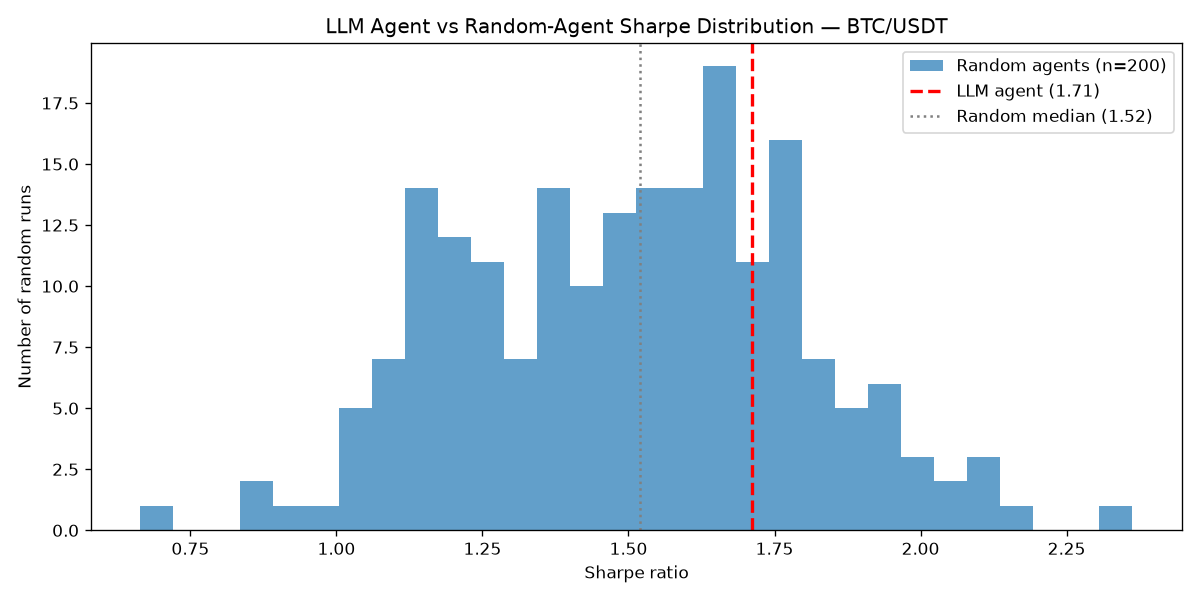
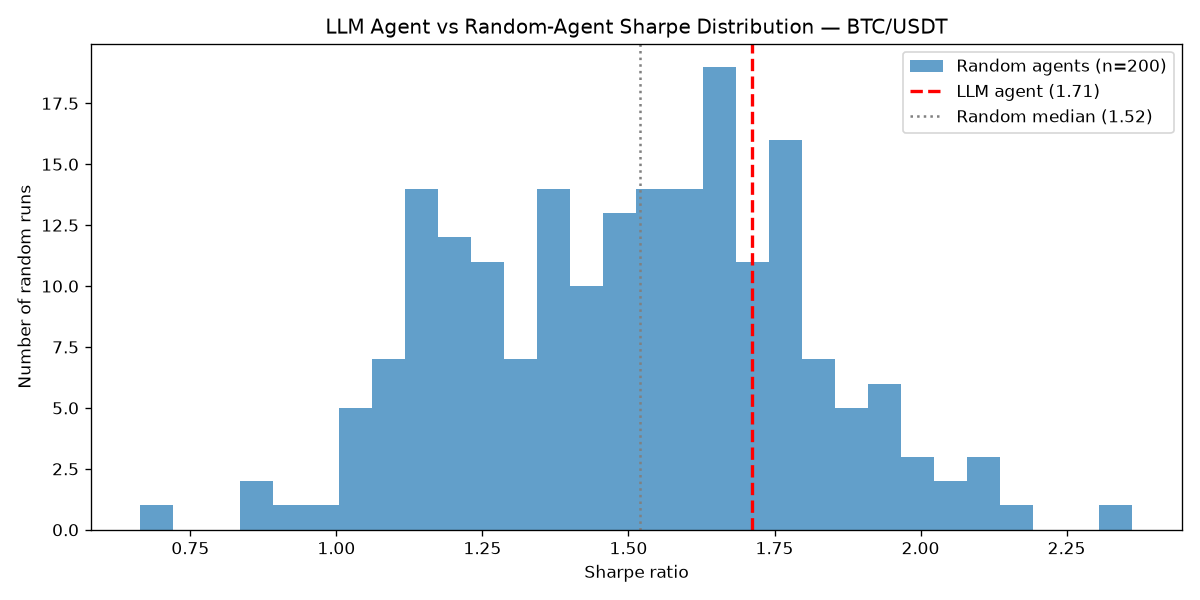
Four-coin results: no significant edge on any coin; debate adds variance not value
Expanding from 2 to 4 coins sharpened the ablation finding: the debate has no
consistent direction (helps BNB, hurts SOL, wash on BTC/ETH) — it injects noise
rather than harmlessly duplicating a single analyst.

diff --git a/notebooks/RESULTS.md b/notebooks/RESULTS.md
@@ -115,3 +115,34 @@ Sharpe only benchmarks against zero, which a bull market clears trivially. The
 empirical p-value is the stricter test: it compares the agent to random agents
 that *also* captured that beta, and there the edge is **not significant**
 (p ≈ 0.24). The Sharpe measures market exposure, not alpha.
+
+## Four-coin robustness (BTC, ETH, SOL, BNB)
+
+Extending all tests to four coins confirms the pattern holds — it was not an
+artifact of two hand-picked assets.
+
+**Significance (empirical p-value vs random null):**
+
+| Symbol | Agent Sharpe | p-value | Significant? |
+|---|---|---|---|
+| BTC | 1.711 | 0.239 | No |
+| ETH | 0.877 | 0.269 | No |
+| SOL | 1.497 | 0.443 | No |
+| BNB | 1.090 | 0.264 | No |
+
+No coin shows a statistically significant edge over a beta-matched random agent.
+(BNB's apparent edge over buy-and-hold in the returns table is not significant.)
+
+**Ablation (full debate vs single analyst), Sharpe:**
+
+| Symbol | Full (debate) | Minimal (1 analyst) |
+|---|---|---|
+| BTC | 1.711 | 1.648 |
+| ETH | 0.877 | 0.867 |
+| SOL | 1.497 | **1.602** |
+| BNB | **1.090** | 0.774 |
+
+Across four coins the debate helps on BNB, *hurts* on SOL, and is a wash on
+BTC/ETH — **no consistent direction.** The multi-agent debate adds variance,
+not value, for ~6x the compute. (Note: the cleaner two-coin result suggested
+mere redundancy; the fuller four-coin picture shows it is actively noisy.)